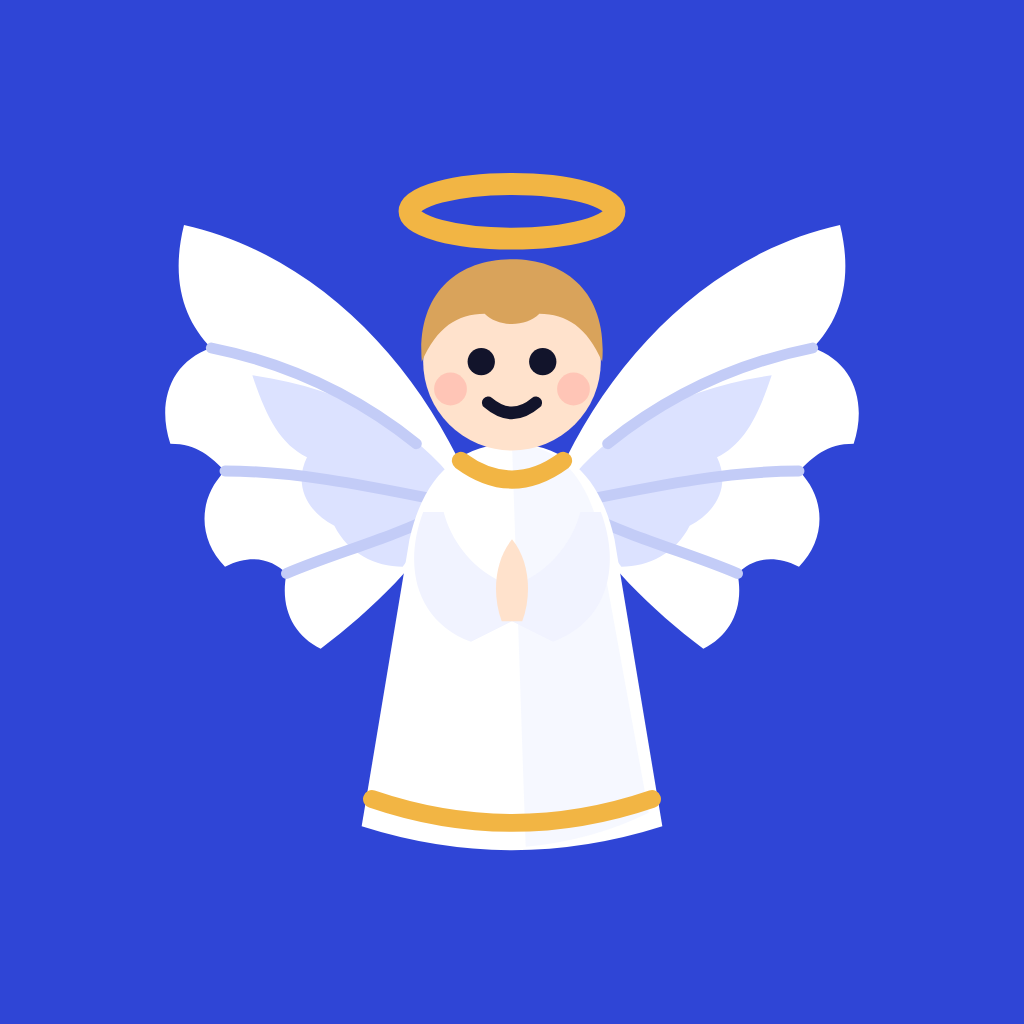
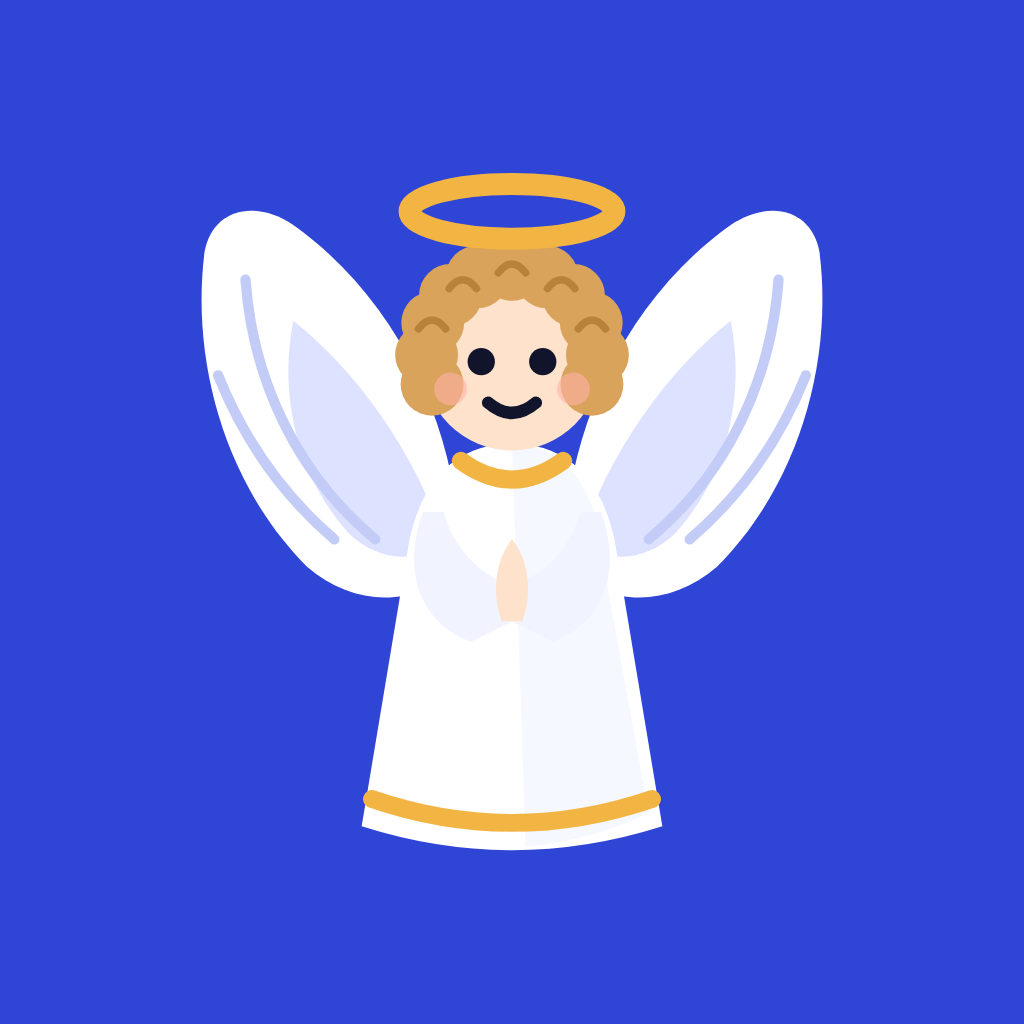
Anjo em estilo enfeite de Natal, capa de abertura e opções de compartilhamento
- Asas em gota (uma peça só) e cabelo cacheado; ícone e splash refeitos
- Capa de abertura com o anjo, o nome e um versículo; toque para pular
- Splash no mesmo azul da capa para a transição ficar contínua
- Versão web pronta para hospedar (cabeçalhos COOP/COEP), perfil de APK
  Android no eas.json e guia docs/compartilhar.md

Claude-Session: https://claude.ai/code/session_0168yZX7Ktt6tpYwaPEEiaj6

Changed region(s): [[0.1562, 0.1875, 0.8438, 0.625]]

diff --git a/src/components/Angel.tsx b/src/components/Angel.tsx
@@ -1,7 +1,7 @@
 /**
  * O anjo da guarda do Verbum — identidade "Luz".
- * Proporções de anjo clássico: asas de penas atrás do corpo, túnica longa com
- * gola e barra douradas, mãos em oração, cabelo e auréola. Formas chapadas.
+ * Como os anjinhos de enfeite de Natal: asas em gota atrás dos ombros, túnica
+ * longa com gola e barra douradas, mãos em oração, cabelo cacheado e auréola.
  * Expressões: feliz (padrão), sereno (olhos fechados) e festa (asas erguidas).
  */
 import Svg, { Circle, Ellipse, G, Path } from 'react-native-svg';
@@ -14,24 +14,35 @@ const INK = '#12142B';
 const GOLD = '#F2B544';
 const SKIN = '#FFE2CC';
 const HAIR = '#D9A35B';
+const HAIR_SHADE = '#B9823A';
 
+/** Asa de enfeite de Natal: uma peça só, em gota, com a ponta para cima e para fora. */
 function Wing({ fill, shade, line, edge, lift }: { fill: string; shade: string; line: string; edge?: string; lift: number }) {
   return (
     <G transform={`translate(0 ${lift})`}>
       <Path
-        d="M52 52 C44 36 30 22 12 18 C10 26 12 32 16 36 C10 38 8 44 10 50 C14 50 16 52 18 54 C14 58 14 64 18 68 C22 66 25 67 27 69 C26 74 28 78 32 80 C40 74 48 66 52 58 Z"
+        d="M52 60 C50 44 42 28 28 18 C22 14 16 16 15 22 C13 38 18 56 30 68 C37 74 46 74 52 68 Z"
         fill={fill}
         stroke={edge ?? 'none'}
         strokeWidth={1.4}
         strokeLinejoin="round"
       />
-      <Path d="M52 56 C46 48 36 42 22 40 C24 46 26 50 30 52 C28 56 30 60 34 62 C36 66 40 68 44 68 C47 64 50 60 52 56 Z" fill={shade} />
-      <Path d="M16 36 C26 38 36 42 46 50" stroke={line} strokeWidth={1.6} fill="none" strokeLinecap="round" />
-      <Path d="M18 54 C28 54 38 56 48 58" stroke={line} strokeWidth={1.6} fill="none" strokeLinecap="round" />
-      <Path d="M27 69 C34 66 42 64 50 60" stroke={line} strokeWidth={1.6} fill="none" strokeLinecap="round" />
+      <Path d="M50 64 C46 52 38 40 28 32 C26 42 28 54 36 63 C40 67 46 68 50 64 Z" fill={shade} />
+      <Path d="M21 26 C22 40 28 54 40 64" stroke={line} strokeWidth={1.5} fill="none" strokeLinecap="round" />
+      <Path d="M17 40 C21 50 27 58 34 64" stroke={line} strokeWidth={1.5} fill="none" strokeLinecap="round" />
     </G>
   );
 }
+
+/** Cachinhos: círculos em arco em volta da cabeça (centro 60,37). */
+const CURLS = [-200, -180, -158, -136, -114, -90, -66, -44, -22, 0, 20].map((deg) => {
+  const a = (deg * Math.PI) / 180;
+  return { x: 60 + 12.5 * Math.cos(a), y: 37 + 12.5 * Math.sin(a) };
+});
+const CURL_MARKS = [-160, -125, -90, -55, -20].map((deg) => {
+  const a = (deg * Math.PI) / 180;
+  return { x: 60 + 12.5 * Math.cos(a), y: 37 + 12.5 * Math.sin(a) };
+});
 
 export function Angel({
   size = 96,
@@ -78,11 +89,12 @@ export function Angel({
 
       {/* cabeça e cabelo */}
       <Circle cx={60} cy={38} r={13} fill={SKIN} />
-      <Path
-        d="M46.8 38 C46 28 52 23 60 23 C68 23 74 28 73.2 38 C71 33 68 31 64 31 C62 33 58 33 56 31 C52 31 49 33 46.8 38 Z"
-        fill={HAIR}
-      />
-      <Circle cx={51} cy={42} r={2.4} fill="#FFB3A7" opacity={0.6} />
+      {CURLS.map((c, i) => (
+        <Circle key={i} cx={c.x} cy={c.y} r={4.6} fill={HAIR} />
+      ))}
+      {CURL_MARKS.map((c, i) => (
+        <Path key={i} d={`M${c.x - 2} ${c.y + 0.5} q2 -2.6 4 0`} stroke={HAIR_SHADE} strokeWidth={1.1} fill="none" strokeLinecap="round" />
+      ))}      <Circle cx={51} cy={42} r={2.4} fill="#FFB3A7" opacity={0.6} />
       <Circle cx={69} cy={42} r={2.4} fill="#FFB3A7" opacity={0.6} />
 
       {/* rosto */}

diff --git a/src/components/Cover.tsx b/src/components/Cover.tsx
@@ -1,0 +1,82 @@
+/**
+ * Capa de abertura: aparece por alguns segundos sempre que o app é aberto,
+ * depois da tela de carregamento nativa (que usa o mesmo azul, para a
+ * transição ficar contínua). Toque em qualquer lugar para pular.
+ * Respeita "Reduzir movimento" do sistema.
+ */
+import { useEffect, useRef } from 'react';
+import { AccessibilityInfo, Animated, Pressable, StyleSheet, View } from 'react-native';
+import { useSafeAreaInsets } from 'react-native-safe-area-context';
+
+import { FONTS, SPACE } from '@/theme';
+
+import { Angel } from './Angel';
+import { T } from './ui';
+
+const BLUE = '#2F45D6';
+const SHOW_MS = 2200;
+
+export function Cover({ onDone }: { onDone: () => void }) {
+  const insets = useSafeAreaInsets();
+  const opacity = useRef(new Animated.Value(1)).current;
+  const rise = useRef(new Animated.Value(16)).current;
+  const content = useRef(new Animated.Value(0)).current;
+  const finished = useRef(false);
+
+  const finish = () => {
+    if (finished.current) return;
+    finished.current = true;
+    Animated.timing(opacity, { toValue: 0, duration: 380, useNativeDriver: true }).start(() => onDone());
+  };
+
+  useEffect(() => {
+    let timer: ReturnType<typeof setTimeout>;
+    AccessibilityInfo.isReduceMotionEnabled()
+      .catch(() => false)
+      .then((reduce) => {
+        if (reduce) {
+          content.setValue(1);
+          rise.setValue(0);
+        } else {
+          Animated.parallel([
+            Animated.timing(content, { toValue: 1, duration: 700, useNativeDriver: true }),
+            Animated.timing(rise, { toValue: 0, duration: 700, useNativeDriver: true }),
+          ]).start();
+        }
+        timer = setTimeout(finish, SHOW_MS);
+      });
+    return () => clearTimeout(timer);
+    // eslint-disable-next-line react-hooks/exhaustive-deps
+  }, []);
+
+  return (
+    <Animated.View style={[StyleSheet.absoluteFill, { backgroundColor: BLUE, opacity, zIndex: 100 }]}>
+      <Pressable
+        style={{ flex: 1, paddingTop: insets.top, paddingBottom: insets.bottom + SPACE.xl }}
+        onPress={finish}
+        accessibilityRole="button"
+        accessibilityLabel="Verbum. Toque para entrar"
+      >
+        <Animated.View style={{ flex: 1, alignItems: 'center', justifyContent: 'center', gap: SPACE.lg, opacity: content, transform: [{ translateY: rise }] }}>
+          <View style={{ width: 210, height: 210, borderRadius: 105, backgroundColor: 'rgba(255,255,255,0.08)', alignItems: 'center', justifyContent: 'center' }}>
+            <Angel size={180} onPrimary />
+          </View>
+          <T color="#FFFFFF" style={{ fontFamily: FONTS.uiExtraBold, fontSize: 44, lineHeight: 52, letterSpacing: -1.2 }}>
+            Verbum
+          </T>
+          <T color="#E6EAFF" style={{ fontSize: 17, textAlign: 'center' }}>
+            A Palavra, um dia de cada vez.
+          </T>
+        </Animated.View>
+        <Animated.View style={{ opacity: content, paddingHorizontal: SPACE.xxl, alignItems: 'center', gap: SPACE.xs }}>
+          <T color="#FFFFFF" style={{ fontFamily: FONTS.scriptureItalic, fontSize: 17, lineHeight: 26, textAlign: 'center' }}>
+            “Tocha resplandecente para os meus pés é a tua palavra, e luz para os meus caminhos.”
+          </T>
+          <T variant="caption" color="#C9D2FF">
+            Salmo 119 (118), 105
+          </T>
+        </Animated.View>
+      </Pressable>
+    </Animated.View>
+  );
+}

diff --git a/src/app/_layout.tsx b/src/app/_layout.tsx
@@ -16,6 +16,7 @@ import { Suspense, useEffect, useState } from 'react';
 import { ActivityIndicator, Platform, View } from 'react-native';
 import { SafeAreaProvider } from 'react-native-safe-area-context';
 
+import { Cover } from '@/components/Cover';
 import { APP_CONFIG } from '@/config';
 import { applyStreakProtection, userDb } from '@/db/user';
 import { refreshNotifications } from '@/hooks/useGamification';
@@ -40,6 +41,8 @@ export default function RootLayout() {
   // No celular as operações síncronas do SQLite funcionam de imediato. Na web
   // (só para testes) é preciso "acordar" o worker com uma operação assíncrona.
   const [storageReady, setStorageReady] = useState(Platform.OS !== 'web');
+  // Capa de abertura, a cada vez que o app é aberto.
+  const [showCover, setShowCover] = useState(true);
   useEffect(() => {
     const startup = () => {
       userDb(); // abre o banco do usuário e roda as migrações
@@ -80,6 +83,7 @@ export default function RootLayout() {
             <RootStack />
           </SQLiteProvider>
         </Suspense>
+        {showCover && <Cover onDone={() => setShowCover(false)} />}
       </AppThemeProvider>
     </SafeAreaProvider>
   );

diff --git a/docs/compartilhar.md b/docs/compartilhar.md
@@ -1,0 +1,47 @@
+# Como compartilhar o Verbum para outras pessoas testarem
+
+| Caminho | iPhone | Android | Custo | Esforço |
+|---|---|---|---|---|
+| **1. Link no navegador** (versão web) | ✅ | ✅ | grátis | baixo |
+| **2. Instalador Android (APK)** | — | ✅ | grátis | médio |
+| **3. TestFlight (app de verdade no iPhone)** | ✅ | — | Apple Developer: US$ 99/ano | médio |
+
+## 1. Link no navegador (mais rápido, serve para todos)
+O app roda no navegador do celular. Limitações: sem notificações, busca mais
+lenta e os dados ficam no navegador (não no app). Bom para mostrar o visual,
+o questionário, as trilhas e o leitor.
+
+1. Gere a versão web: `npm run web:build` (cria a pasta `dist/`, já com os
+   cabeçalhos necessários em `dist/_headers`).
+2. Entre em https://app.netlify.com/drop (crie uma conta grátis se pedir).
+3. Arraste a pasta `dist` para a página. Em segundos aparece um link
+   (ex.: `https://nome-aleatorio.netlify.app`) — é só mandar para as pessoas.
+4. Para atualizar: gere de novo e, no site da Netlify, abra o projeto →
+   **Deploys** → arraste a pasta nova.
+
+Dica para quem recebe: no iPhone, abra no **Safari** → Compartilhar →
+"Adicionar à Tela de Início" para ficar com cara de app.
+
+## 2. Android: instalador APK (app de verdade)
+1. Na pasta do projeto, com o login do Expo ativo (`npx expo whoami`), rode:
+   `npm run android:apk`
+   - Na primeira vez ele pergunta se pode criar o projeto no Expo (`y`) e se
+     pode gerar a chave do Android (`y`).
+2. O build roda na nuvem do Expo (grátis, ~15–20 min). No fim aparece um link
+   e um QR code.
+3. Mande o link: a pessoa abre no Android, baixa e instala (o celular pede
+   para "permitir instalar apps desta fonte").
+
+## 3. iPhone: TestFlight
+A Apple não permite instalar apps fora da App Store sem uma conta de
+desenvolvedor (Apple Developer Program, US$ 99/ano, em developer.apple.com).
+Com a conta:
+1. `npx eas-cli@latest build --platform ios --profile production`
+2. `npx eas-cli@latest submit --platform ios`
+3. No App Store Connect → TestFlight, crie um **link público de teste** e
+   mande para as pessoas (elas instalam o app TestFlight e entram pelo link).
+
+## Por que não pelo Expo Go?
+O Expo Go só abre o projeto enquanto o seu computador está ligado rodando
+`npx expo start`, e as versões novas exigem que cada pessoa esteja logada na
+conta do projeto. Serve para você testar, não para distribuir.

diff --git a/CLAUDE.md b/CLAUDE.md
@@ -34,7 +34,8 @@ Ao fim de cada fase: mostrar o que foi feito e como testar no Expo Go.
 - **Moeda**: "talentos" (parábola dos talentos) — confirmado. Ícone: moeda dourada antiga com uma cruz (`src/components/TalentIcon.tsx`), não diamante.
 - **Notificações locais** (`src/lib/notifications.ts`): lembrete diário no horário escolhido, aviso de ofensiva em risco (20h30) e Angelus (6h/12h/18h), reagendadas para 7 dias a cada abertura/check-in/mudança. Funcionam no Expo Go.
 - **Ofensiva com amigos**: depende de conta e servidor → Fase 4 (Supabase).
-- **Identidade visual: "Luz"** (escolhida entre Luz, Vitral e Aurora). Fundo névoa `#F6F7FB`, azul mariano `#2F45D6`, dourado-luz `#F2B544`, tinta `#12142B`; Plus Jakarta Sans (interface, títulos em ExtraBold) + Newsreader (texto bíblico); cantos grandes (cartões 28 px), cartões sem contorno no tema claro; cartão principal azul. Anjo da guarda clássico em formas chapadas: asas de penas atrás do corpo, túnica longa azul com gola e barra douradas, mãos em oração, cabelo e auréola (`onPrimary` = túnica branca sobre azul). Evitar proporções de "bichinho" (cabeça grande + corpo redondo): a dona do projeto achou que parecia um inseto. Ícone e splash em `assets/` gerados a partir do anjo.
+- **Identidade visual: "Luz"** (escolhida entre Luz, Vitral e Aurora). Fundo névoa `#F6F7FB`, azul mariano `#2F45D6`, dourado-luz `#F2B544`, tinta `#12142B`; Plus Jakarta Sans (interface, títulos em ExtraBold) + Newsreader (texto bíblico); cantos grandes (cartões 28 px), cartões sem contorno no tema claro; cartão principal azul. Anjo da guarda no estilo dos anjinhos de enfeite de Natal: asas em gota (uma peça só, ponta para cima/fora — NÃO duas partes, parecia borboleta), cabelo cacheado, túnica longa azul com gola e barra douradas, mãos em oração, cabelo e auréola (`onPrimary` = túnica branca sobre azul). Evitar proporções de "bichinho" (cabeça grande + corpo redondo): a dona do projeto achou que parecia um inseto. Ícone e splash em `assets/` gerados a partir do anjo. Capa de abertura (`src/components/Cover.tsx`) a cada abertura, no azul do splash; toque para pular.
+- **Compartilhar para teste**: web (Netlify, `npm run web:build`, cabeçalhos COOP/COEP em `public/_headers`), APK Android (`npm run android:apk`, perfil `preview` do `eas.json`), TestFlight (exige Apple Developer). Ver `docs/compartilhar.md`.
 
 ## Estrutura
 ```

diff --git a/README.md b/README.md
@@ -79,6 +79,10 @@ onboarding de novo): Perfil → Privacidade e dados → Apagar todos os meus dad
 7. Veja **Bíblia** (73 livros, Salmos com dupla numeração), a **busca**, o
    **Diário** e **Perfil → Privacidade e dados** (exportar / apagar).
 
+## Compartilhar com outras pessoas
+Link no navegador (iPhone e Android), instalador Android e TestFlight: veja
+[`docs/compartilhar.md`](docs/compartilhar.md).
+
 ## Desenvolvimento
 ```bash
 npm test            # testes da lógica (plano, Salmos, limpeza do texto)
